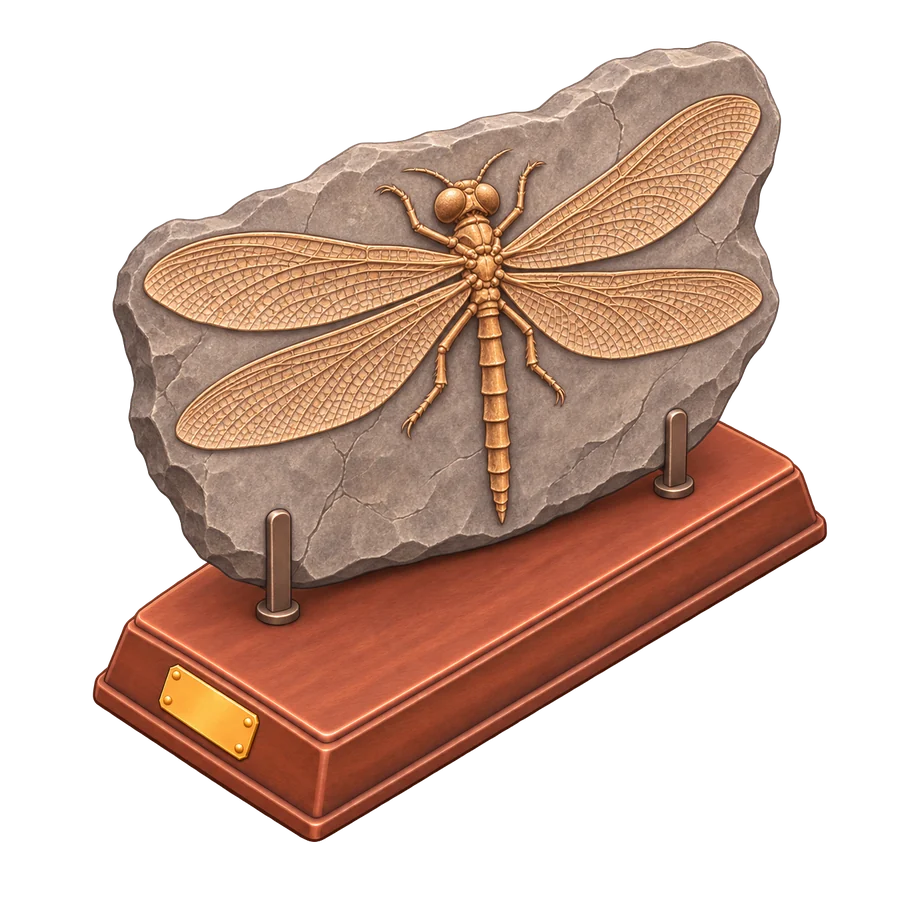
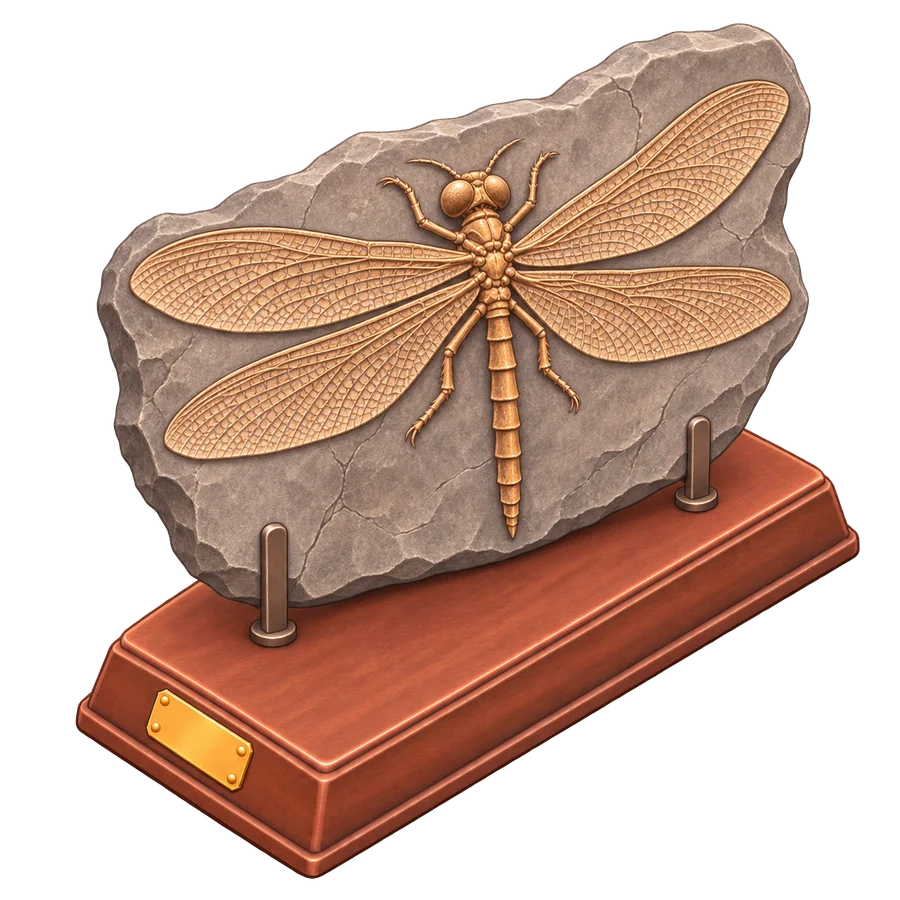
Karbon: Meganeura-Lebendbild auf passendem Sockel
Claude-Session: https://claude.ai/code/session_01UZ49mRRMnRHWRQ5bRbCUMB

diff --git a/src/game.html b/src/game.html
@@ -933,7 +933,7 @@ function loadImg(n){if(IMG[n])return Promise.resolve(IMG[n]);if(PEND[n])return P
   return PEND[n]=new Promise(res=>{const im=new Image();im.decoding="async";im.onload=()=>{IMG[n]=im;res(im)};im.onerror=()=>res(null);im.src=aurl(n)})}
 const aurl=n=>(window.EMB&&window.EMB[n])||ASSET+n;   // im Download sind die Grafiken eingebettet
 // Erweiterung: Bilder, die schon geliefert sind. Alle anderen neuen Bilder zeigen eine Infotafel „Bild folgt bald“.
-const HAVE=new Set(["ex_megan.webp","ex_arthr.webp","live_arthr.webp","ex_hylon.webp","live_hylon.webp","ex_pulmo.webp","live_pulmo.webp","ex_crass.webp","live_crass.webp","r_archaeopteris.webp","r_placoderm.webp","real_dunkl.webp","realsk_dunkl.webp","real_tikta.webp","realsk_tikta.webp","real_acant.webp","realsk_acant.webp","real_bothr.webp","realsk_bothr.webp","real_clado.webp","realsk_clado.webp","ex_dunkl.webp","live_dunkl.webp","ex_tikta.webp","live_tikta.webp","ex_acant.webp","live_acant.webp","ex_bothr.webp","live_bothr.webp","ex_clado.webp","live_clado.webp","r_cooksonia.webp","r_chaincoral.webp","real_ptery.webp","realsk_ptery.webp","real_euryp.webp","realsk_euryp.webp","real_dalma.webp","realsk_dalma.webp","real_clima.webp","realsk_clima.webp","real_pneum.webp","realsk_pneum.webp","ex_ptery.webp","live_ptery.webp","ex_euryp.webp","live_euryp.webp","ex_dalma.webp","live_dalma.webp","ex_clima.webp","live_clima.webp","ex_pneum.webp","live_pneum.webp","real_camer.webp","realsk_camer.webp","real_isote.webp","realsk_isote.webp","real_megag.webp","realsk_megag.webp","real_sacab.webp","realsk_sacab.webp","real_asaph.webp","realsk_asaph.webp","r_bryozoa.webp","r_nautilus.webp","ex_camer.webp","live_camer.webp","ex_isote.webp","live_isote.webp","ex_megag.webp","live_megag.webp","ex_sacab.webp","live_sacab.webp","ex_asaph.webp","live_asaph.webp","real_parad.webp","realsk_parad.webp","real_pikai.webp","realsk_pikai.webp","real_anoma.webp","realsk_anoma.webp","real_opabi.webp","realsk_opabi.webp","real_hallu.webp","realsk_hallu.webp","ex_parad.webp", "live_parad.webp", "sk_parad.webp", "ex_anoma.webp", "live_anoma.webp", "sk_anoma.webp", "ex_opabi.webp", "live_opabi.webp", "sk_opabi.webp", "ex_hallu.webp", "live_hallu.webp", "sk_hallu.webp", "ex_pikai.webp", "live_pikai.webp", "sk_pikai.webp"]);
+const HAVE=new Set(["live_megan.webp","ex_megan.webp","ex_arthr.webp","live_arthr.webp","ex_hylon.webp","live_hylon.webp","ex_pulmo.webp","live_pulmo.webp","ex_crass.webp","live_crass.webp","r_archaeopteris.webp","r_placoderm.webp","real_dunkl.webp","realsk_dunkl.webp","real_tikta.webp","realsk_tikta.webp","real_acant.webp","realsk_acant.webp","real_bothr.webp","realsk_bothr.webp","real_clado.webp","realsk_clado.webp","ex_dunkl.webp","live_dunkl.webp","ex_tikta.webp","live_tikta.webp","ex_acant.webp","live_acant.webp","ex_bothr.webp","live_bothr.webp","ex_clado.webp","live_clado.webp","r_cooksonia.webp","r_chaincoral.webp","real_ptery.webp","realsk_ptery.webp","real_euryp.webp","realsk_euryp.webp","real_dalma.webp","realsk_dalma.webp","real_clima.webp","realsk_clima.webp","real_pneum.webp","realsk_pneum.webp","ex_ptery.webp","live_ptery.webp","ex_euryp.webp","live_euryp.webp","ex_dalma.webp","live_dalma.webp","ex_clima.webp","live_clima.webp","ex_pneum.webp","live_pneum.webp","real_camer.webp","realsk_camer.webp","real_isote.webp","realsk_isote.webp","real_megag.webp","realsk_megag.webp","real_sacab.webp","realsk_sacab.webp","real_asaph.webp","realsk_asaph.webp","r_bryozoa.webp","r_nautilus.webp","ex_camer.webp","live_camer.webp","ex_isote.webp","live_isote.webp","ex_megag.webp","live_megag.webp","ex_sacab.webp","live_sacab.webp","ex_asaph.webp","live_asaph.webp","real_parad.webp","realsk_parad.webp","real_pikai.webp","realsk_pikai.webp","real_anoma.webp","realsk_anoma.webp","real_opabi.webp","realsk_opabi.webp","real_hallu.webp","realsk_hallu.webp","ex_parad.webp", "live_parad.webp", "sk_parad.webp", "ex_anoma.webp", "live_anoma.webp", "sk_anoma.webp", "ex_opabi.webp", "live_opabi.webp", "sk_opabi.webp", "ex_hallu.webp", "live_hallu.webp", "sk_hallu.webp", "ex_pikai.webp", "live_pikai.webp", "sk_pikai.webp"]);
 const SKOWN=new Set(["parad","anoma","opabi","hallu","pikai"]);   // Museums-Renderings (sk_ + Maske) der neuen Arten, die schon da sind
 const NEWC=new Set(["parad", "anoma", "opabi", "hallu", "pikai", "camer", "isote", "megag", "sacab", "asaph", "ptery", "euryp", "dalma", "clima", "pneum", "dunkl", "tikta", "acant", "bothr", "clado", "megan", "arthr", "hylon", "pulmo", "crass", "megal", "deino", "thyla", "titan", "chali"]),NEWR=new Set(["r_burgess", "r_archaeo", "r_bryozoa", "r_nautilus", "r_cooksonia", "r_chaincoral", "r_archaeopteris", "r_placoderm", "r_lepido", "r_coalfern", "r_megtooth", "r_hipparion"]);   // Arten und Funde der Erweiterung (Bilder kommen nach und nach)
 const SCENE_IMG=new Set([0,1,2,3,5,6,7,8,9,11]);   // Zeitalter mit gemalter Landschaft (scene_/floor_)
@@ -1759,7 +1759,7 @@ const WIKI={dime:[295,272,3.5,"L",250,"F"],edap:[303,280,3.5,"L",300,"P"],scut:[
   mamm:[.4,.004,3.4,"H",6000,"P"],smil:[2.5,.01,1.9,"L",280,"F"],nash:[.35,.014,3.5,"L",2000,"P"],baer:[.3,.025,3,"L",500,"P"],megl:[.4,.0077,2.1,"H",600,"P"],glyp:[2.5,.01,3.3,"L",2000,"P"]};
 Object.assign(WIKI,{"parad": [509, 497, 0.37, "L", 0, "S"], "anoma": [520, 499, 1, "L", 0, "F"], "opabi": [508, 505, 0.07, "L", 0, "S"], "hallu": [508, 505, 0.03, "L", 0, "S"], "pikai": [508, 505, 0.05, "L", 0, "S"], "camer": [470, 450, 6, "L", 0, "F"], "isote": [460, 445, 0.7, "L", 0, "S"], "megag": [450, 445, 1.2, "L", 0, "F"], "sacab": [465, 460, 0.35, "L", 0, "S"], "asaph": [470, 465, 0.1, "L", 0, "S"], "ptery": [428, 372, 2, "L", 0, "F"], "euryp": [432, 418, 0.25, "L", 0, "S"], "dalma": [444, 419, 0.07, "L", 0, "S"], "clima": [425, 410, 0.15, "L", 0, "S"], "pneum": [428, 425, 0.01, "L", 0, "P"], "dunkl": [382, 358, 6, "L", 1000, "F"], "tikta": [375, 375, 2.5, "L", 0, "F"], "acant": [365, 365, 0.6, "L", 0, "F"], "bothr": [387, 360, 0.4, "L", 0, "P"], "clado": [370, 360, 1.8, "L", 0, "Fi"], "megan": [305, 299, 0.7, "W", 0, "I"], "arthr": [345, 295, 2.5, "L", 0, "P"], "hylon": [312, 312, 0.2, "L", 0, "I"], "pulmo": [336, 336, 0.7, "L", 0, "I"], "crass": [330, 325, 2, "L", 0, "F"], "megal": [23, 3.6, 15, "L", 50000, "F"], "deino": [20, 1, 6, "L", 10000, "P"], "thyla": [9, 3, 1.5, "L", 100, "F"], "titan": [5, 1.8, 2.5, "H", 150, "F"], "chali": [16, 7, 2.6, "H", 1000, "P"]});
 const WREAL=new Set(["trex","dime","edap","scut","inos","meso","plat","herr","coel","eora","noth","arch","allo","steg","brac","dipl","icht","rham","tric","velo","anky","spin","pter","mosa","pars","igua","gast","basi","darw","prop","andr","prac","mamm","smil","nash","baer","megl","glyp","parad","pikai","anoma","opabi","hallu","camer","isote","megag","sacab","asaph","ptery","euryp","dalma","clima","pneum","dunkl","tikta","acant","bothr","clado"]);   // Arten mit realistischen Profilbildern real_<id> (lebend) und realsk_<id> (Skelett)
-const WLIVE=new Set(["dime","edap","scut","inos","meso","plat","herr","coel","eora","noth","arch","allo","steg","brac","dipl","icht","tric","anky","spin","pter","mosa","pars","igua","velo","gast","basi","prop","andr","prac","mamm","smil","nash","baer","megl","glyp","darw","rham","parad","anoma","opabi","hallu","pikai","camer","isote","megag","sacab","asaph","ptery","euryp","dalma","clima","pneum","dunkl","tikta","acant","bothr","clado","arthr","hylon","pulmo","crass"]);   // Arten, für die es schon ein Lebendbild gibt
+const WLIVE=new Set(["dime","edap","scut","inos","meso","plat","herr","coel","eora","noth","arch","allo","steg","brac","dipl","icht","tric","anky","spin","pter","mosa","pars","igua","velo","gast","basi","prop","andr","prac","mamm","smil","nash","baer","megl","glyp","darw","rham","parad","anoma","opabi","hallu","pikai","camer","isote","megag","sacab","asaph","ptery","euryp","dalma","clima","pneum","dunkl","tikta","acant","bothr","clado","arthr","hylon","pulmo","crass","megan"]);   // Arten, für die es schon ein Lebendbild gibt
 const wkKnown=c=>Object.keys(mus(c.id)).length>0||[0,1,2,3,4].some(i=>labHas(c.id,i));
 const wkNum=x=>x.toLocaleString(S.lang==="en"?"en-GB":S.lang==="es"?"es-ES":S.lang==="fr"?"fr-FR":"de-DE",{maximumFractionDigits:x<10?1:0});
 function wkTime(a,b){if(a===b)return t("wkTime1",{a:wkNum(a)});return a>=1?t("wkTime",{a:wkNum(a),b:wkNum(b)}):t("wkTimeK",{a:wkNum(Math.round(a*1e6)),b:wkNum(Math.round(b*1e6))})}
